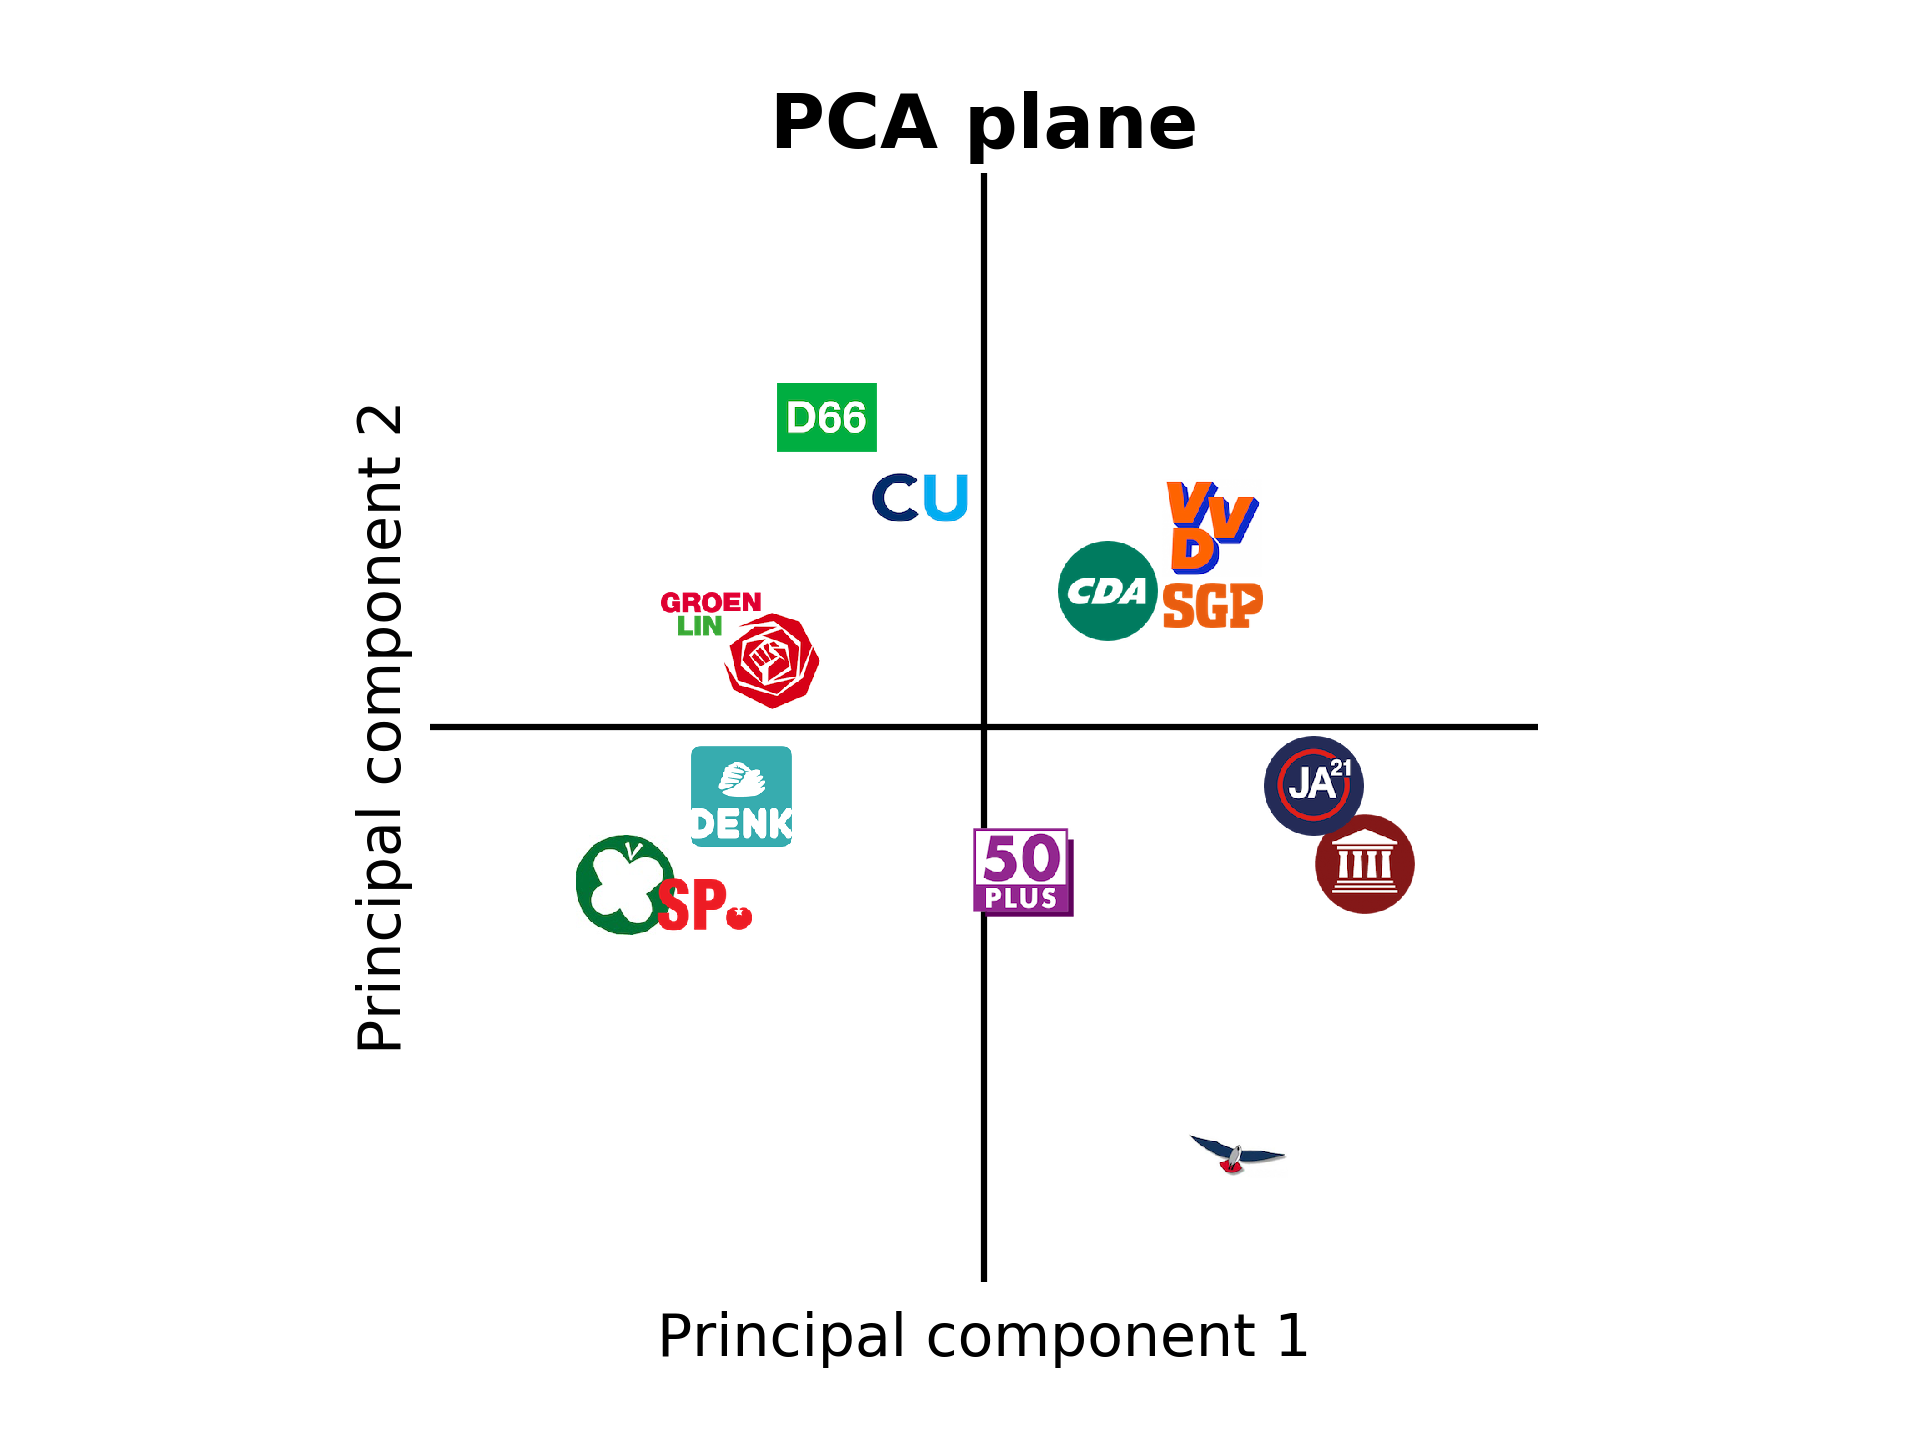
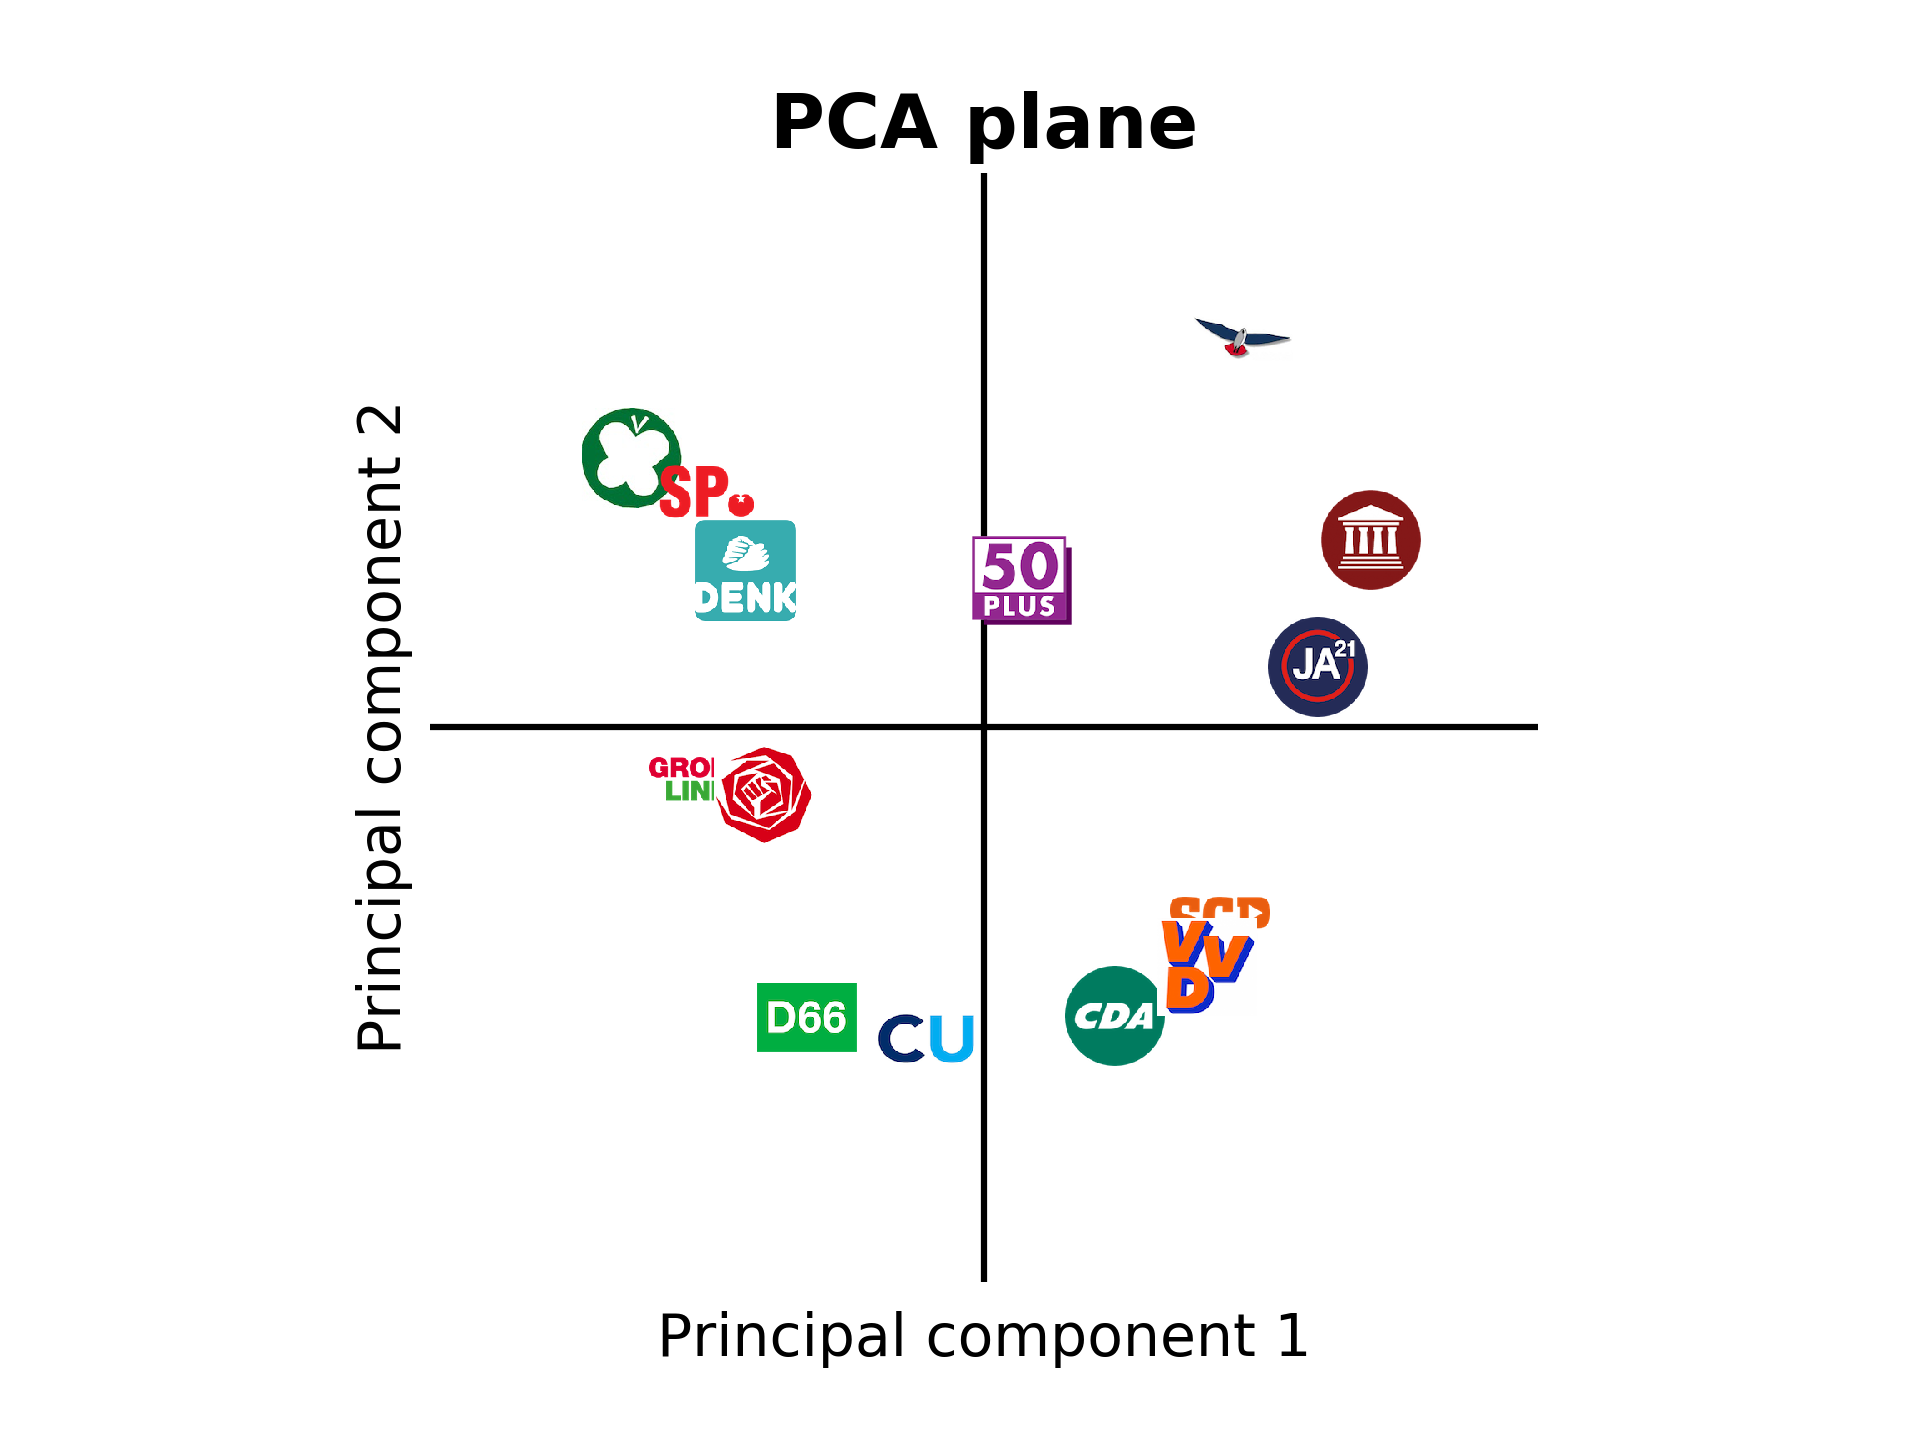
Added inverse pca test, centricity test

diff --git a/kieskompas_pca.py b/kieskompas_pca.py
@@ -33,7 +33,7 @@ class Animation_kieskompas:
 	def __init__(self):
 		data = pd.read_csv('kieskompas.csv')
 		pca = PCA(n_components=2)
-		self.pca = pd.DataFrame(pca.fit(data).components_.T,index=data.keys(),\
+		self.pca = pd.DataFrame(pca.fit_transform(data.T),index=data.keys(),\
 						columns=['leftright','consprog'])
 		self.kk = pd.read_csv('coords_kieskompas.csv',index_col='party')
 
@@ -85,23 +85,107 @@ class Animation_kieskompas:
 		plt.savefig('pca_kieskompas.png',dpi=300)
 		plt.show()
 
+class compare_center_to_extreme:
+	"""
+	Center parties are expected to have a higher entropy than 
+	extreme parties. A negative consequence of this is that you can disagree 
+	wildly on topics with center parties and still be recommended to vote for them. 
+	This is _not_ true for extreme parties. 
+
+	Here I show this using an inverse PCA transform and comparing with input. 
+	"""
+	def __init__(self,rounding=False):
+		self.data = pd.read_csv('kieskompas.csv')
+		self.PCA = PCA(n_components=2)
+		self.pca = self.PCA.fit_transform(self.data.T)
+		self.inv_pca = self.PCA.inverse_transform(self.pca)
+		if rounding: self.inv_pca = np.round(self.inv_pca)
+
+		self.inv_pca = pd.DataFrame(self.inv_pca.T,columns=self.data.columns)
+		self.pca = pd.DataFrame(self.pca.T,columns=self.data.columns)
+
+		self.plot()
+
+	def plot(self):
+		extreme = ['fvd','d66','pvv','pvdd']
+		center = ['cda','pvda','50plus']
+
+		#self.plot_input_vs_invpca(extreme)
+		#self.plot_input_vs_invpca(center)
+		self.plot_residual()
+		plt.show()
+
+	def plot_input_vs_invpca(self,parties):
+		"""
+		Plot input vs inverse_pca(pca) of center parties. 
+		"""
+		if len(parties) == 4:
+			fig, ax = plt.subplots(2,2,figsize=(10,10))
+		elif len(parties) == 3:
+			fig,ax = plt.subplots(1,3,figsize=(15,5))
+		else:
+			fig,ax = plt.subplots(len(parties))
+
+		for i in np.arange(len(parties)):
+			ax.flatten()[i].scatter(self.data[parties[i]],self.inv_pca[parties[i]],alpha=0.5)
+			ax.flatten()[i].set_title(parties[i])
+			ax.flatten()[i].set_xlabel('Input answers')
+			ax.flatten()[i].set_ylabel('Inverse transform')
+
+	def plot_residual(self):
+		extreme = ['fvd','pvv','pvdd']
+		center = ['cda','pvda','50plus']
+
+		fig,ax = plt.subplots(1,2,figsize=(10,5))
+		resids = []
+		for party in extreme:
+			ax[0].scatter(np.arange(1,31),self.data[party]-self.inv_pca[party],alpha=0.5,color='red')
+			ax[0].set_title('Extreme parties (D66, PVV, PvdD, FvD)')
+			resids.append(self.data[party]-self.inv_pca[party])
+		print('Extreme parties have a scatter of %.2f in their residuals'%np.std(resids))
+
+		resids = []
+		for party in center:
+			ax[1].scatter(np.arange(1,31),self.data[party]-self.inv_pca[party],alpha=0.5,color='blue')
+			ax[1].set_title('Center parties (CDA, PvdA, 50plus')
+			resids.append(self.data[party]-self.inv_pca[party])
+		print('Center parties have a scatter of %.2f in their residuals'%np.std(resids))
+
+		for axi in ax:
+			axi.set_ylim([-2.6,2.6])
+			axi.set_xlim([0,31])
+			axi.plot([0,31],[0,0],'k-',zorder=0)
+
+		fig,ax = plt.subplots(1)
+		ax.set_title('Centricity vs. inverse PCA residuals')
+		for party in self.data.columns:
+			centricity = np.sqrt(np.sum(self.pca[party]**2.))
+			std = np.std(self.data[party]-self.inv_pca[party])
+			plot_logo(party,(centricity,std),ax=ax)
+		ax.set_xlim([0.8,10])
+		ax.set_ylim([0.39,1.])
+		ax.set_xlabel('Centricity (length of (PC1,PC2) vector',fontsize=14)
+		ax.set_ylabel('inverse PCA residuals',fontsize=14)
+		plt.savefig('centricity_vs_inverse_pca_residuals.png',dpi=300)
+		plt.show()
+
 		
 def old():
 	data = pd.read_csv('kieskompas.csv')
 
 	pca = PCA(n_components=2)
-	pca.fit(data)
+	components = pca.fit_transform(data.T)
 
 	print(pca.explained_variance_ratio_)
 
 	fig,ax = plt.subplots(1)
 	for i in np.arange(len(data.columns)):
-		pos = (pca.components_[0,i],pca.components_[1,i])
+		pos = (components[i,0],components[i,1])
 		plot_logo(data.columns[i],pos,ax=ax)
-	ax.update_datalim(np.column_stack([pca.components_[0,:],pca.components_[1,:]]))
+	ax.update_datalim(np.column_stack([components[:,0],components[:,1]]))
 	ax.autoscale()
-	x_mean = np.median(pca.components_[0,:])
-	y_mean = np.median(pca.components_[1,:])
+	x_mean = np.median(components[:,0])
+	y_mean = np.median(components[:,1])
 	ax.set_xlim(ax.get_xlim())
 	ax.set_ylim(ax.get_ylim())
 	ax.plot(ax.get_xlim(),[y_mean]*2,linestyle='dashed',color='k',zorder=0)
@@ -128,5 +212,6 @@ def old():
 	ax.text(430,0,'Rechts',rotation=-90,va='center')
 	plt.show()
 
-a = Animation_kieskompas()
-a.plot()
+#a = Animation_kieskompas()
+#a.plot()
+a = compare_center_to_extreme()
